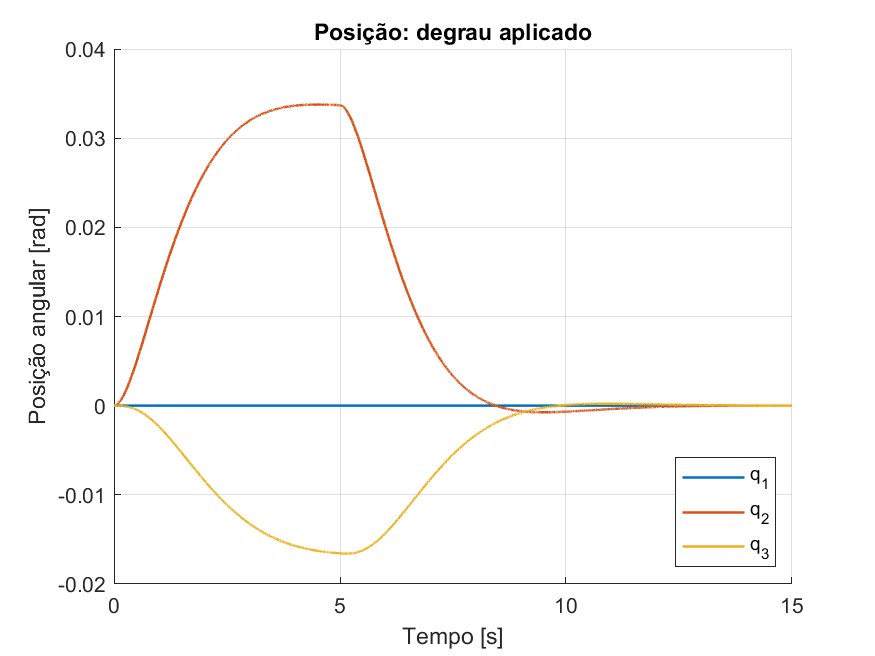
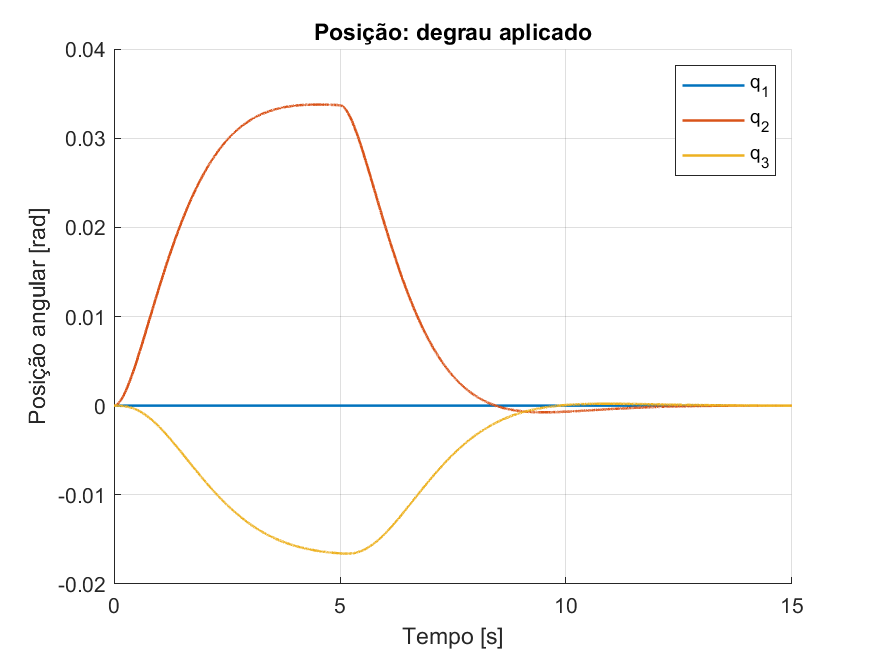
a

diff --git a/m_aloc2.m b/m_aloc2.m
@@ -141,7 +141,7 @@ plot(t,y(:,6),LineWidth=1.20)
 title("Velocidade angular: degrau aplicado")
 xlabel("Tempo [s]")
 ylabel("Velocidade angular [rad/s]")
-legend('w_1','w_2','w_3','Location','east')
+legend('w_1','w_2','w_3','Location','northeast')
 hold off
 grid on
 baseFileName = sprintf('Image_%s.png', "aloc_u2_vel");
@@ -156,7 +156,7 @@ plot(t,y(:,3),LineWidth=1.20)
 title("Posição: degrau aplicado")
 xlabel("Tempo [s]")
 ylabel("Posição angular [rad]")
-legend('q_1','q_2','q_3','Location','southeast')
+legend('q_1','q_2','q_3','Location','northeast')
 hold off
 grid on
 baseFileName = sprintf('Image_%s.png', "aloc_u2_pos");
